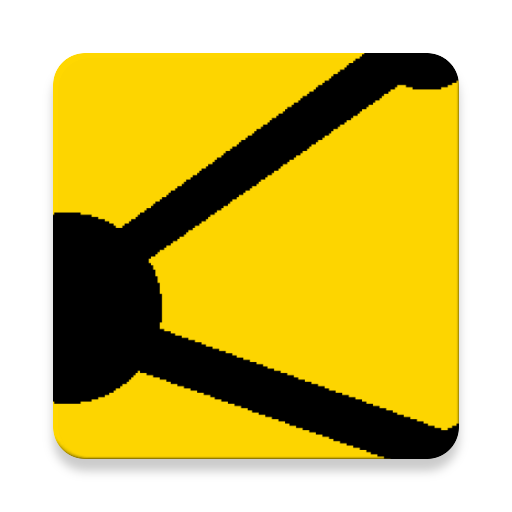
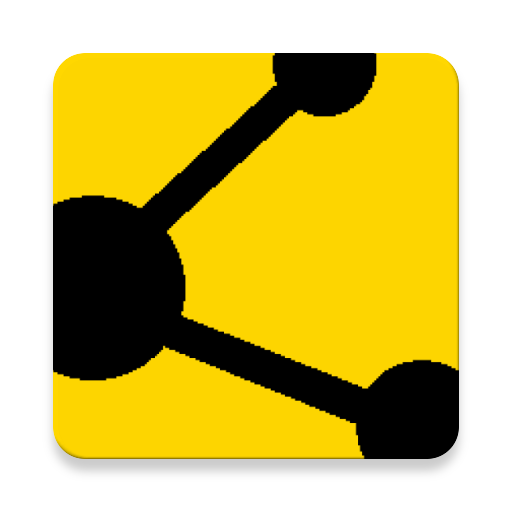
Cambiamento colore dell'icona di sharing mediante ChangeColorThread, si ha il ripristino al nero in caso di uscita dai note o in caso di un errore non previsto

Changed region(s): [[0.0938, 0.0938, 0.9062, 0.9062]]

diff --git a/app/src/main/java/CustomAdapter.kt b/app/src/main/java/CustomAdapter.kt
@@ -22,6 +22,8 @@ import java.io.ByteArrayOutputStream
 import java.io.File
 import java.io.IOException
 import java.util.*
+var controllo_generale10:Boolean?=null
+var controllo_generale11:Boolean?=null
 val SHARING_REQUEST_CODE=2
 var mediaplayer_CustomerAdapter3: MediaPlayer? = null
 class CustomAdapter(val userList:ArrayList<User>):RecyclerView.Adapter<CustomAdapter.ViewHolder>()
@@ -47,6 +49,24 @@ class CustomAdapter(val userList:ArrayList<User>):RecyclerView.Adapter<CustomAda
         var file_text: File?=null
         var file_data_text:File?=null
         val user:User=userList[p1]
+        class MyHandler:Handler()
+        {
+            override fun handleMessage(msg: Message)
+            {
+                val bundle:Bundle=msg.getData()
+                val valore:String=bundle.getString("reflesh")
+                if(valore=="change")
+                    p0.share1.setBackgroundResource(R.mipmap.imm48_foreground)
+                else
+                    if(valore=="change2")
+                        p0.share1.setBackgroundResource(R.mipmap.imm49_foreground)
+                    else
+                        if(valore=="error_change")
+                            p0.share1.setBackgroundResource(R.mipmap.imm46_foreground)
+            }
+        }
+        val myHandler=MyHandler()
+        val changeColorThread=ChangeColorThread(myHandler)
         p0.textViewTesto.text=user.testo
         p0.textViewOrario_Data.text=user.orario_data
         p0.titolo1.setText(user.title1)
@@ -72,7 +92,7 @@ class CustomAdapter(val userList:ArrayList<User>):RecyclerView.Adapter<CustomAda
         p0.share1.setOnClickListener {
             val path1=output+user.titolo1+".txt"
             file_text=File(path1)
-            share(file_title1?.readText(Charsets.UTF_8),file_text,1,user.contesto,null)
+            share(file_title1?.readText(Charsets.UTF_8),file_text,1,user.contesto,null,changeColorThread)
         }
         p0.modifica1.setOnClickListener {
             if(p0.titolo1.text.toString()!="")
@@ -137,6 +157,15 @@ class CustomAdapter2(val userList:ArrayList<User2>):RecyclerView.Adapter<CustomA
                 else
                     if(valore=="invisible")
                         p0.progress_immage.visibility=View.INVISIBLE
+                    else
+                        if(valore=="change")
+                            p0.share2.setBackgroundResource(R.mipmap.imm48_foreground)
+                        else
+                            if(valore=="change2")
+                                p0.share2.setBackgroundResource(R.mipmap.imm49_foreground)
+                            else
+                                if(valore=="error_change")
+                                    p0.share2.setBackgroundResource(R.mipmap.imm46_foreground)
             }
         }
         class ProgressBarThread constructor(val handler:Handler):Thread()
@@ -173,6 +202,7 @@ class CustomAdapter2(val userList:ArrayList<User2>):RecyclerView.Adapter<CustomA
         }
         val myHandler=MyHandler()
         val progressBarThread=ProgressBarThread(myHandler)
+        val changeColorThread=ChangeColorThread(myHandler)
         progressBarThread.start()
         p0.imageViewData.setImageBitmap(user2.immagine)
         p0.imageViewData.setOnClickListener{
@@ -214,7 +244,7 @@ class CustomAdapter2(val userList:ArrayList<User2>):RecyclerView.Adapter<CustomA
         p0.share2.setOnClickListener {
             val path2=output+user2.titolo2+".jpg"
             file_image=File(path2)
-            share(file_title2?.readText(Charsets.UTF_8),file_image,2,user2.contesto,null)
+            share(file_title2?.readText(Charsets.UTF_8),file_image,2,user2.contesto,null,changeColorThread)
         }
         p0.modifica2.setOnClickListener {
             if(p0.titolo2.text.toString()!="")
@@ -279,14 +309,23 @@ class CustomAdapter3(val userList:ArrayList<User3>):RecyclerView.Adapter<CustomA
             {
                 val bundle:Bundle=msg.getData()
                 val valore:String=bundle.getString("reflesh")
-                if(valore!=R.mipmap.imm34_foreground.toString())
-                {
-                    if(valore=="The selected audio is not available!")
-                        p0.timer.setTextColor(rgb(155,17,30))
-                    p0.timer.text = valore
-                }
+                if(valore=="change")
+                    p0.share3.setBackgroundResource(R.mipmap.imm48_foreground)
                 else
-                    p0.riproduci_ferma.setBackgroundResource(valore.toInt())
+                    if(valore=="change2")
+                        p0.share3.setBackgroundResource(R.mipmap.imm49_foreground)
+                    else
+                        if(valore=="error_change")
+                            p0.share3.setBackgroundResource(R.mipmap.imm46_foreground)
+                        else
+                            if(valore!=R.mipmap.imm34_foreground.toString())
+                            {
+                                if(valore=="The selected audio is not available!")
+                                    p0.timer.setTextColor(rgb(155,17,30))
+                                p0.timer.text = valore
+                            }
+                            else
+                                p0.riproduci_ferma.setBackgroundResource(valore.toInt())
             }
         }
         class TimerThread constructor(val handler:Handler):Thread()
@@ -334,6 +373,7 @@ class CustomAdapter3(val userList:ArrayList<User3>):RecyclerView.Adapter<CustomA
         }
         val handler=MyHandler()
         val timer=TimerThread(handler)
+        val changeColorThread=ChangeColorThread(handler)
         p0.riproduci_ferma.setOnClickListener{
             if(riproduci_pausa&&controllo_riproduzione)
             {
@@ -407,7 +447,7 @@ class CustomAdapter3(val userList:ArrayList<User3>):RecyclerView.Adapter<CustomA
         p0.share3.setOnClickListener {
             val path3=output+user3.titolo3+".mp3"
             file_audio=File(path3)
-            share(file_title3?.readText(Charsets.UTF_8),file_audio,3,user3.contesto,null)
+            share(file_title3?.readText(Charsets.UTF_8),file_audio,3,user3.contesto,null,changeColorThread)
         }
         p0.modifica3.setOnClickListener {
             if(p0.titolo3.text.toString()!="")
@@ -437,8 +477,9 @@ class CustomAdapter3(val userList:ArrayList<User3>):RecyclerView.Adapter<CustomA
         val modifica3=itemView.findViewById(R.id.modifica3)as Button
     }
 }
-private fun share(title:String?,file:File?,tipo:Int,contesto:Context,opzioni:Bundle?)
+private fun share(title:String?,file:File?,tipo:Int,contesto:Context,opzioni:Bundle?,changeColorThread:ChangeColorThread)
 {
+    changeColorThread.start()
     var mediaplayer:MediaPlayer?=null
     var titolo:String?=null
     val shareIntent=Intent(Intent.ACTION_SEND)
@@ -468,4 +509,33 @@ private fun share(title:String?,file:File?,tipo:Int,contesto:Context,opzioni:Bun
     Toast.makeText(contesto,"The sharing box has been\nsuccessfully activated!", Toast.LENGTH_LONG).show()
     mediaplayer = MediaPlayer.create(contesto, R.raw.move_graph_sound)
     mediaplayer?.start()
+}
+class ChangeColorThread constructor(val handler: Handler):Thread()
+{
+    override fun run()
+    {
+        while((controllo_generale10==null)||(controllo_generale11==null))
+            sleep(500)
+        if(controllo_generale11==true)
+        {
+            if (controllo_generale10 == true)
+                notify_message("change")
+            else
+                if (controllo_generale10 == false)
+                    notify_message("change2")
+        }
+        else
+            if(controllo_generale11==false)
+                notify_message("error_change")
+        controllo_generale10=null
+        controllo_generale11=null
+    }
+    fun notify_message(valore:String)
+    {
+        val messaggio=handler.obtainMessage()
+        val bundle=Bundle()
+        bundle.putString("reflesh",""+valore)
+        messaggio.setData(bundle)
+        handler.sendMessage(messaggio)
+    }
 }

diff --git a/app/src/main/java/com/example/mathfactory/Function10.kt b/app/src/main/java/com/example/mathfactory/Function10.kt
@@ -483,12 +483,16 @@ class Function10 : AppCompatActivity(), NavigationView.OnNavigationItemSelectedL
                     Toast.makeText(this, "The audio has been\nsuccessfully shared!", Toast.LENGTH_LONG).show()
                     mediaplayer = MediaPlayer.create(this, R.raw.move_home_sound)
                     mediaplayer?.start()
+                    controllo_generale10=true
+                    controllo_generale11=true
                 }
                 else
                 {
                     Toast.makeText(this,"The audio has not been shared!",Toast.LENGTH_LONG).show()
                     mediaplayer = MediaPlayer.create(this, R.raw.error_sound)
                     mediaplayer?.start()
+                    controllo_generale10=false
+                    controllo_generale11=true
                 }
             }
             else->
@@ -496,6 +500,8 @@ class Function10 : AppCompatActivity(), NavigationView.OnNavigationItemSelectedL
                 Toast.makeText(this,"Ops... Something is gone wrong!",Toast.LENGTH_LONG).show()
                 mediaplayer = MediaPlayer.create(this, R.raw.error_sound)
                 mediaplayer?.start()
+                if(requestCode== SHARING_REQUEST_CODE)
+                    controllo_generale11=false
             }
         }
     }

diff --git a/app/src/main/java/com/example/mathfactory/Function9.kt b/app/src/main/java/com/example/mathfactory/Function9.kt
@@ -386,12 +386,16 @@ class Function9 : AppCompatActivity(), NavigationView.OnNavigationItemSelectedLi
                     Toast.makeText(this, "The image has been\nsuccessfully shared!", Toast.LENGTH_LONG).show()
                     mediaplayer = MediaPlayer.create(this, R.raw.move_home_sound)
                     mediaplayer?.start()
+                    controllo_generale10=true
+                    controllo_generale11=true
                 }
                 else
                 {
                     Toast.makeText(this,"The image has not been shared!",Toast.LENGTH_LONG).show()
                     mediaplayer = MediaPlayer.create(this, R.raw.error_sound)
                     mediaplayer?.start()
+                    controllo_generale10=false
+                    controllo_generale11=true
                 }
             }
             else->
@@ -399,6 +403,8 @@ class Function9 : AppCompatActivity(), NavigationView.OnNavigationItemSelectedLi
                 Toast.makeText(this,"Ops... Something is gone wrong!",Toast.LENGTH_LONG).show()
                 mediaplayer = MediaPlayer.create(this, R.raw.error_sound)
                 mediaplayer?.start()
+                if(requestCode== SHARING_REQUEST_CODE)
+                    controllo_generale11=false
             }
         }
     }

diff --git a/app/src/main/java/com/example/mathfactory/Function8.kt b/app/src/main/java/com/example/mathfactory/Function8.kt
@@ -306,12 +306,16 @@ class Function8 : AppCompatActivity(), NavigationView.OnNavigationItemSelectedLi
                     Toast.makeText(this, "The text has been\nsuccessfully shared!", Toast.LENGTH_LONG).show()
                     mediaplayer = MediaPlayer.create(this, R.raw.move_home_sound)
                     mediaplayer?.start()
+                    controllo_generale10=true
+                    controllo_generale11=true
                 }
                 else
                 {
                     Toast.makeText(this,"The text has not been shared!",Toast.LENGTH_LONG).show()
                     mediaplayer = MediaPlayer.create(this, R.raw.error_sound)
                     mediaplayer?.start()
+                    controllo_generale10=false
+                    controllo_generale11=true
                 }
             }
             else->
@@ -319,6 +323,8 @@ class Function8 : AppCompatActivity(), NavigationView.OnNavigationItemSelectedLi
                 Toast.makeText(this,"Ops... Something is gone wrong!",Toast.LENGTH_LONG).show()
                 mediaplayer = MediaPlayer.create(this, R.raw.error_sound)
                 mediaplayer?.start()
+                if(requestCode== SHARING_REQUEST_CODE)
+                    controllo_generale11=false
             }
         }
     }
